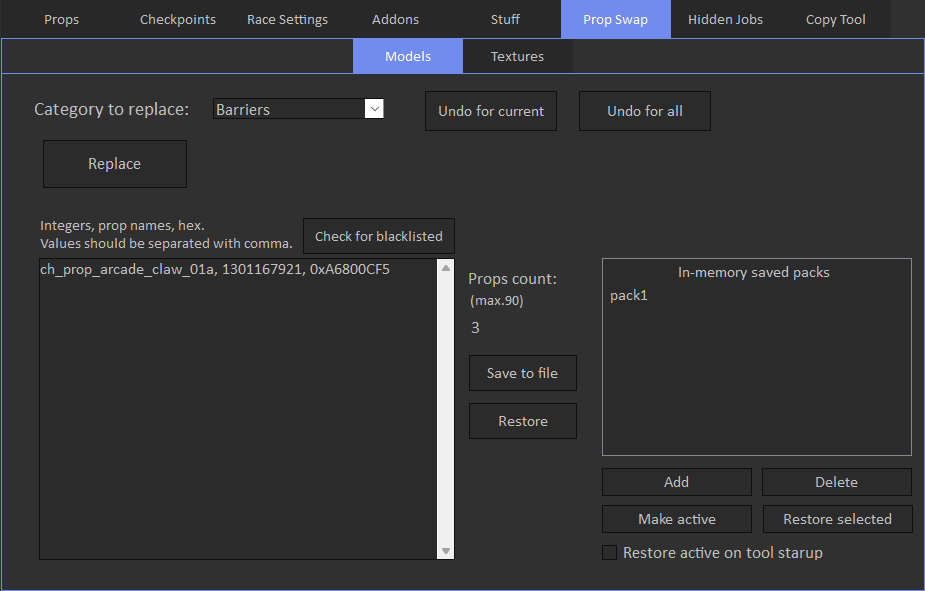
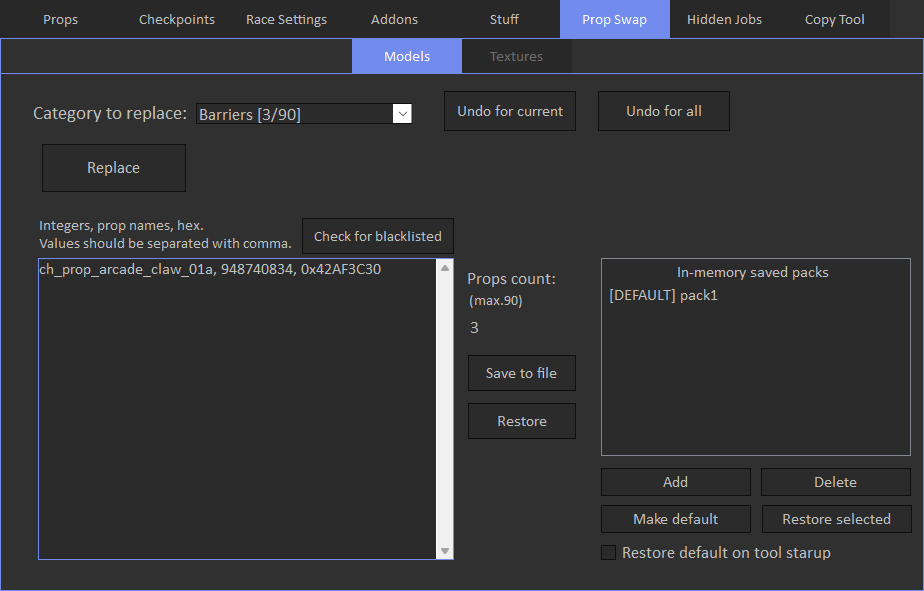
update prop swap

diff --git a/docs/prop-swap/models/overview.md b/docs/prop-swap/models/overview.md
@@ -10,10 +10,10 @@ Replaced props will appear in the props category that you selected.
 
 ![Img2](../../assets/images/prop-swap/img02.png)
 
-You can add prop packs in the tool memory and make one of them active, this will auto restore pack when you open the tool,
+You can add prop packs in the tool memory and make one of them default, this will auto restore pack when you open the tool,
 also it's faster to switch between multiple packs that you often use by pressing Restore selected button
 
-'Make active' checkbox makes selected prop pack active, and it will be auto restored if 'Restore active on tool startup' checkbox is active, but it does not restore pack instantly.<br>
+'Make default' checkbox makes selected prop pack default, and it will be auto-restored if 'Restore default on tool startup' checkbox is active.<br>
 If you want to restore in-memory saved pack, press 'Restore selected' button.
 
 You can restore prop pack by double clicking on it.
